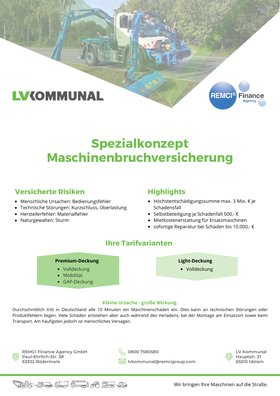
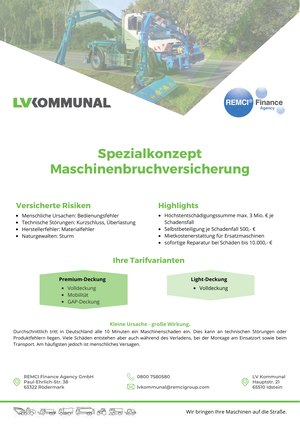
Downloads als Querkarten mit großem Vorschaubild

diff --git a/downloads.html b/downloads.html
@@ -38,37 +38,27 @@
     <div class="hero-text"><p class="eyebrow">Service</p><h1 class="d-l">Downloads</h1><p class="lead">Unsere Infoblätter zum Nachlesen und&nbsp;Weitergeben.</p></div>
     <div class="strasse" aria-hidden="true"><svg class="illu" viewBox="0 60 5928 400" aria-hidden="true"><use href="assets/img/illustration.svg#ill"/></svg></div>
   </div>
-</section><section class="sek sek-raum" aria-label="Infoblätter"><div class="wrap"><div class="downloads">
-    <article class="download">
-      <a class="papier-buehne papier-quer" href="downloads/LV-Kommunal_Infobroschuere.pdf" target="_blank" rel="noopener" tabindex="-1" aria-hidden="true">
-        <span class="papier"><picture><source srcset="assets/img/pdf-infobroschuere-klein.webp 280w, assets/img/pdf-infobroschuere.webp 560w" sizes="280px" type="image/webp"><img src="assets/img/pdf-infobroschuere-klein.jpg" alt="" width="280" height="198" loading="lazy" decoding="async"></picture></span>
-      </a>
-      <div class="download-text"><p class="eyebrow">Überblick</p><h2>Infobroschüre Leasing und&nbsp;Versicherung</h2><p>Die Vorteile für Vertrieb und Handel sowie für Dienstleister und&nbsp;Kommunen.</p>
-      <div class="download-fuss"><span>PDF · 2 Seiten · 152&nbsp;KB</span><a class="btn btn-grau" href="downloads/LV-Kommunal_Infobroschuere.pdf" target="_blank" rel="noopener"><svg viewBox="0 0 24 24" fill="none" stroke="currentColor" stroke-width="2.2" stroke-linecap="round" stroke-linejoin="round" aria-hidden="true"><path d="M12 4v11M7 10l5 5 5-5M5 20h14"/></svg> Herunterladen<span class="sr"> Infobroschüre Leasing und&nbsp;Versicherung</span><span class="sr">(öffnet in neuem&nbsp;Tab)</span></a></div></div></article>
-    <article class="download">
-      <a class="papier-buehne" href="downloads/LV-Kommunal_Langzeitmiete.pdf" target="_blank" rel="noopener" tabindex="-1" aria-hidden="true">
-        <span class="papier"><picture><source srcset="assets/img/pdf-langzeitmiete-klein.webp 280w, assets/img/pdf-langzeitmiete.webp 560w" sizes="280px" type="image/webp"><img src="assets/img/pdf-langzeitmiete-klein.jpg" alt="" width="280" height="396" loading="lazy" decoding="async"></picture></span>
-      </a>
-      <div class="download-text"><p class="eyebrow">Für&nbsp;Kommunen</p><h2>Kommunale&nbsp;Langzeitmiete</h2><p>Entlastet den Haushalt, fest kalkulierbare Kosten, schnellere Beschaffung, Saisonmieten möglich, Laufzeiten von 6 bis 84&nbsp;Monaten.</p>
-      <div class="download-fuss"><span>PDF · 2 Seiten · 122&nbsp;KB</span><a class="btn btn-grau" href="downloads/LV-Kommunal_Langzeitmiete.pdf" target="_blank" rel="noopener"><svg viewBox="0 0 24 24" fill="none" stroke="currentColor" stroke-width="2.2" stroke-linecap="round" stroke-linejoin="round" aria-hidden="true"><path d="M12 4v11M7 10l5 5 5-5M5 20h14"/></svg> Herunterladen<span class="sr"> Kommunale&nbsp;Langzeitmiete</span><span class="sr">(öffnet in neuem&nbsp;Tab)</span></a></div></div></article>
-    <article class="download">
-      <a class="papier-buehne" href="downloads/LV-Kommunal_Maschinenbruchversicherung.pdf" target="_blank" rel="noopener" tabindex="-1" aria-hidden="true">
-        <span class="papier"><picture><source srcset="assets/img/pdf-maschinenbruchversicherung-klein.webp 280w, assets/img/pdf-maschinenbruchversicherung.webp 560w" sizes="280px" type="image/webp"><img src="assets/img/pdf-maschinenbruchversicherung-klein.jpg" alt="" width="280" height="396" loading="lazy" decoding="async"></picture></span>
-      </a>
-      <div class="download-text"><p class="eyebrow">Versicherung</p><h2>Maschinenbruchversicherung</h2><p>Motor- und Getriebeschäden, Bedienungsfehler, Böswilligkeit, Vandalismus, GAP-Deckung und Mietkosten für eine&nbsp;Ersatzmaschine.</p>
-      <div class="download-fuss"><span>PDF · 2 Seiten · 293&nbsp;KB</span><a class="btn btn-grau" href="downloads/LV-Kommunal_Maschinenbruchversicherung.pdf" target="_blank" rel="noopener"><svg viewBox="0 0 24 24" fill="none" stroke="currentColor" stroke-width="2.2" stroke-linecap="round" stroke-linejoin="round" aria-hidden="true"><path d="M12 4v11M7 10l5 5 5-5M5 20h14"/></svg> Herunterladen<span class="sr"> Maschinenbruchversicherung</span><span class="sr">(öffnet in neuem&nbsp;Tab)</span></a></div></div></article>
-    <article class="download">
-      <a class="papier-buehne" href="downloads/LV-Kommunal_Einkaufsfinanzierung.pdf" target="_blank" rel="noopener" tabindex="-1" aria-hidden="true">
-        <span class="papier"><picture><source srcset="assets/img/pdf-einkaufsfinanzierung-klein.webp 280w, assets/img/pdf-einkaufsfinanzierung.webp 560w" sizes="280px" type="image/webp"><img src="assets/img/pdf-einkaufsfinanzierung-klein.jpg" alt="" width="280" height="396" loading="lazy" decoding="async"></picture></span>
-      </a>
-      <div class="download-text"><p class="eyebrow">Für&nbsp;Händler</p><h2>Einkaufsfinanzierung</h2><p>Einkaufsrahmen ab 250.000 €, 100 % Finanzierung ohne Eigenmittel, Skonto und Frühbezugskonditionen nutzen, Liquidität&nbsp;schonen.</p>
-      <div class="download-fuss"><span>PDF · 2 Seiten · 181&nbsp;KB</span><a class="btn btn-grau" href="downloads/LV-Kommunal_Einkaufsfinanzierung.pdf" target="_blank" rel="noopener"><svg viewBox="0 0 24 24" fill="none" stroke="currentColor" stroke-width="2.2" stroke-linecap="round" stroke-linejoin="round" aria-hidden="true"><path d="M12 4v11M7 10l5 5 5-5M5 20h14"/></svg> Herunterladen<span class="sr"> Einkaufsfinanzierung</span><span class="sr">(öffnet in neuem&nbsp;Tab)</span></a></div></div></article>
-    <article class="download">
-      <a class="papier-buehne" href="downloads/LV-Kommunal_Mietparkversicherung.pdf" target="_blank" rel="noopener" tabindex="-1" aria-hidden="true">
-        <span class="papier"><picture><source srcset="assets/img/pdf-mietparkversicherung-klein.webp 280w, assets/img/pdf-mietparkversicherung.webp 560w" sizes="280px" type="image/webp"><img src="assets/img/pdf-mietparkversicherung-klein.jpg" alt="" width="280" height="396" loading="lazy" decoding="async"></picture></span>
-      </a>
-      <div class="download-text"><p class="eyebrow">Für&nbsp;Händler</p><h2>Mietparkversicherung</h2><p>Vermietrisiko versichert, Neumaschinen automatisch dabei, kein An- und Abmelden von neuen oder verkauften&nbsp;Geräten.</p>
-      <div class="download-fuss"><span>PDF · 2 Seiten · 105&nbsp;KB</span><a class="btn btn-grau" href="downloads/LV-Kommunal_Mietparkversicherung.pdf" target="_blank" rel="noopener"><svg viewBox="0 0 24 24" fill="none" stroke="currentColor" stroke-width="2.2" stroke-linecap="round" stroke-linejoin="round" aria-hidden="true"><path d="M12 4v11M7 10l5 5 5-5M5 20h14"/></svg> Herunterladen<span class="sr"> Mietparkversicherung</span><span class="sr">(öffnet in neuem&nbsp;Tab)</span></a></div></div></article>
+</section><section class="sek sek-raum" aria-label="Infoblätter"><div class="wrap"><div class="dl-raster">
+    <a class="dl-karte dl-gross" href="downloads/LV-Kommunal_Infobroschuere.pdf" target="_blank" rel="noopener">
+      <span class="dl-bild"><span class="dl-papier"><picture><source srcset="assets/img/pdf-infobroschuere-klein.webp 560w, assets/img/pdf-infobroschuere.webp 1100w" sizes="(max-width: 760px) 80vw, 520px" type="image/webp"><img src="assets/img/pdf-infobroschuere-klein.jpg" alt="" width="560" height="396" loading="lazy" decoding="async"></picture></span></span>
+      <span class="dl-text"><span class="eyebrow">Überblick</span><h2>Infobroschüre Leasing und&nbsp;Versicherung</h2><span class="dl-beschr">Die Vorteile für Vertrieb und Handel sowie für Dienstleister und&nbsp;Kommunen.</span>
+        <span class="dl-meta"><span class="dl-knopf"><svg viewBox="0 0 24 24" fill="none" stroke="currentColor" stroke-width="2.2" stroke-linecap="round" stroke-linejoin="round" aria-hidden="true"><path d="M12 4v11M7 10l5 5 5-5M5 20h14"/></svg>PDF&nbsp;herunterladen</span><small>2 Seiten · 152&nbsp;KB</small></span></span><span class="sr">(öffnet in neuem&nbsp;Tab)</span></a>
+    <a class="dl-karte" href="downloads/LV-Kommunal_Langzeitmiete.pdf" target="_blank" rel="noopener">
+      <span class="dl-bild"><span class="dl-papier"><picture><source srcset="assets/img/pdf-langzeitmiete-klein.webp 300w, assets/img/pdf-langzeitmiete.webp 560w" sizes="(max-width: 760px) 60vw, 230px" type="image/webp"><img src="assets/img/pdf-langzeitmiete-klein.jpg" alt="" width="300" height="424" loading="lazy" decoding="async"></picture></span></span>
+      <span class="dl-text"><span class="eyebrow">Für&nbsp;Kommunen</span><h2>Kommunale&nbsp;Langzeit&shy;miete</h2><span class="dl-beschr">Entlastet den Haushalt, fest kalkulierbare Kosten, schnellere Beschaffung, Saisonmieten möglich, Laufzeiten von 6 bis 84&nbsp;Monaten.</span>
+        <span class="dl-meta"><span class="dl-knopf"><svg viewBox="0 0 24 24" fill="none" stroke="currentColor" stroke-width="2.2" stroke-linecap="round" stroke-linejoin="round" aria-hidden="true"><path d="M12 4v11M7 10l5 5 5-5M5 20h14"/></svg>PDF&nbsp;herunterladen</span><small>2 Seiten · 122&nbsp;KB</small></span></span><span class="sr">(öffnet in neuem&nbsp;Tab)</span></a>
+    <a class="dl-karte" href="downloads/LV-Kommunal_Maschinenbruchversicherung.pdf" target="_blank" rel="noopener">
+      <span class="dl-bild"><span class="dl-papier"><picture><source srcset="assets/img/pdf-maschinenbruchversicherung-klein.webp 300w, assets/img/pdf-maschinenbruchversicherung.webp 560w" sizes="(max-width: 760px) 60vw, 230px" type="image/webp"><img src="assets/img/pdf-maschinenbruchversicherung-klein.jpg" alt="" width="300" height="424" loading="lazy" decoding="async"></picture></span></span>
+      <span class="dl-text"><span class="eyebrow">Versicherung</span><h2>Maschinenbruch&shy;versicherung</h2><span class="dl-beschr">Motor- und Getriebeschäden, Bedienungsfehler, Böswilligkeit, Vandalismus, GAP-Deckung und Mietkosten für eine&nbsp;Ersatzmaschine.</span>
+        <span class="dl-meta"><span class="dl-knopf"><svg viewBox="0 0 24 24" fill="none" stroke="currentColor" stroke-width="2.2" stroke-linecap="round" stroke-linejoin="round" aria-hidden="true"><path d="M12 4v11M7 10l5 5 5-5M5 20h14"/></svg>PDF&nbsp;herunterladen</span><small>2 Seiten · 293&nbsp;KB</small></span></span><span class="sr">(öffnet in neuem&nbsp;Tab)</span></a>
+    <a class="dl-karte" href="downloads/LV-Kommunal_Einkaufsfinanzierung.pdf" target="_blank" rel="noopener">
+      <span class="dl-bild"><span class="dl-papier"><picture><source srcset="assets/img/pdf-einkaufsfinanzierung-klein.webp 300w, assets/img/pdf-einkaufsfinanzierung.webp 560w" sizes="(max-width: 760px) 60vw, 230px" type="image/webp"><img src="assets/img/pdf-einkaufsfinanzierung-klein.jpg" alt="" width="300" height="424" loading="lazy" decoding="async"></picture></span></span>
+      <span class="dl-text"><span class="eyebrow">Für&nbsp;Händler</span><h2>Einkaufs&shy;finanzierung</h2><span class="dl-beschr">Einkaufsrahmen ab 250.000 €, 100 % Finanzierung ohne Eigenmittel, Skonto und Frühbezugskonditionen nutzen, Liquidität&nbsp;schonen.</span>
+        <span class="dl-meta"><span class="dl-knopf"><svg viewBox="0 0 24 24" fill="none" stroke="currentColor" stroke-width="2.2" stroke-linecap="round" stroke-linejoin="round" aria-hidden="true"><path d="M12 4v11M7 10l5 5 5-5M5 20h14"/></svg>PDF&nbsp;herunterladen</span><small>2 Seiten · 181&nbsp;KB</small></span></span><span class="sr">(öffnet in neuem&nbsp;Tab)</span></a>
+    <a class="dl-karte" href="downloads/LV-Kommunal_Mietparkversicherung.pdf" target="_blank" rel="noopener">
+      <span class="dl-bild"><span class="dl-papier"><picture><source srcset="assets/img/pdf-mietparkversicherung-klein.webp 300w, assets/img/pdf-mietparkversicherung.webp 560w" sizes="(max-width: 760px) 60vw, 230px" type="image/webp"><img src="assets/img/pdf-mietparkversicherung-klein.jpg" alt="" width="300" height="424" loading="lazy" decoding="async"></picture></span></span>
+      <span class="dl-text"><span class="eyebrow">Für&nbsp;Händler</span><h2>Mietpark&shy;versicherung</h2><span class="dl-beschr">Vermietrisiko versichert, Neumaschinen automatisch dabei, kein An- und Abmelden von neuen oder verkauften&nbsp;Geräten.</span>
+        <span class="dl-meta"><span class="dl-knopf"><svg viewBox="0 0 24 24" fill="none" stroke="currentColor" stroke-width="2.2" stroke-linecap="round" stroke-linejoin="round" aria-hidden="true"><path d="M12 4v11M7 10l5 5 5-5M5 20h14"/></svg>PDF&nbsp;herunterladen</span><small>2 Seiten · 105&nbsp;KB</small></span></span><span class="sr">(öffnet in neuem&nbsp;Tab)</span></a>
   </div></div></section>
 <section class="sek grau-flaeche" aria-labelledby="anruf-titel">
   <div class="wrap anruf">

diff --git a/assets/css/style.css b/assets/css/style.css
@@ -598,3 +598,59 @@ body { hyphens: manual; -webkit-hyphens: manual; }
 /* Ausgeblendete Elemente bleiben ausgeblendet, auch wenn ihre Klasse display setzt */
 [hidden] { display: none !important; }
 @media (max-width: 480px) { .kacheln-drei .kw { flex-direction: row; gap: .9rem; } }
+
+/* ============================================ Downloads als Querkarten (Version 2) */
+.dl-raster { display: grid; grid-template-columns: repeat(2, minmax(0, 1fr)); gap: 1.4rem; }
+.dl-karte {
+  display: grid; grid-template-columns: minmax(0, .85fr) minmax(0, 1.15fr); min-height: 300px;
+  background: var(--weiss); border: 1px solid var(--raum-2); border-radius: var(--r-l); overflow: hidden;
+  text-decoration: none; color: inherit; transition: border-color .2s, box-shadow .2s, transform .2s;
+}
+.dl-karte:hover { border-color: #C5CAC1; box-shadow: 0 2px 4px rgba(38, 39, 42, .05), 0 18px 40px rgba(38, 39, 42, .1); transform: translateY(-2px); }
+.dl-karte:focus-visible { outline: 3px solid var(--gruen-text); outline-offset: 3px; }
+.dl-gross { grid-column: 1 / -1; grid-template-columns: minmax(0, 1.2fr) minmax(0, 1fr); min-height: 340px; }
+
+/* Bildfeld in Logo-Grau, das Infoblatt ragt von unten heraus */
+.dl-bild {
+  position: relative; display: flex; align-items: flex-end; justify-content: center; overflow: hidden;
+  padding: 2.2rem 1.5rem 0;
+  background: radial-gradient(90% 70% at 50% 0%, #6A6B70 0%, var(--grau) 60%, var(--grau-tief) 100%);
+}
+.dl-papier { position: relative; display: block; width: 68%; max-width: 230px; transform: translateY(14%); transition: transform .45s cubic-bezier(.2, .7, .2, 1); }
+.dl-gross .dl-papier { width: 82%; max-width: 520px; transform: translateY(16%); }
+/* zweites Blatt dahinter, gerade versetzt: alle Infoblätter haben zwei Seiten */
+.dl-papier::before {
+  content: ""; position: absolute; inset: 0; border-radius: 2px; background: #E9EBE7;
+  transform: translate(10px, -10px); box-shadow: 0 10px 30px rgba(0, 0, 0, .25);
+}
+.dl-papier img {
+  position: relative; display: block; width: 100%; height: auto; border-radius: 2px; background: var(--weiss);
+  box-shadow: 0 1px 2px rgba(0, 0, 0, .2), 0 10px 18px rgba(0, 0, 0, .22), 0 30px 60px rgba(0, 0, 0, .3);
+}
+.dl-karte:hover .dl-papier, .dl-karte:focus-visible .dl-papier { transform: translateY(6%); }
+
+.dl-text { display: flex; flex-direction: column; gap: .55rem; padding: clamp(1.4rem, 2.6vw, 2rem); }
+.dl-text .eyebrow { margin-bottom: .2rem; }
+.dl-text h2 { font-size: clamp(1.2rem, 1.7vw, 1.45rem); letter-spacing: -.015em; line-height: 1.2; }
+.dl-gross .dl-text h2 { font-size: clamp(1.4rem, 2.2vw, 1.9rem); }
+.dl-beschr { color: var(--tinte-2); font-size: .97rem; line-height: 1.6; }
+.dl-meta { margin-top: auto; padding-top: 1.2rem; display: flex; align-items: center; justify-content: space-between; gap: .6rem 1rem; flex-wrap: wrap; }
+.dl-knopf { display: inline-flex; align-items: center; gap: .5rem; font-weight: 700; color: var(--gruen-text); }
+.dl-knopf svg { width: 20px; height: 20px; transition: transform .2s; }
+.dl-karte:hover .dl-knopf { text-decoration: underline; text-underline-offset: .2em; }
+.dl-karte:hover .dl-knopf svg { transform: translateY(2px); }
+.dl-meta small { font-family: var(--mono); font-size: .74rem; color: var(--tinte-2); }
+
+@media (max-width: 1040px) { .dl-raster { grid-template-columns: minmax(0, 1fr); } }
+@media (max-width: 640px) {
+  .dl-karte, .dl-gross { grid-template-columns: minmax(0, 1fr); }
+  .dl-bild { min-height: 230px; padding-top: 1.8rem; }
+  .dl-papier { width: 46%; }
+  .dl-gross .dl-papier { width: 84%; }
+}
+@media (prefers-reduced-motion: reduce) { .dl-papier, .dl-karte { transition: none; } }
+.dl-karte:not(.dl-gross) { grid-template-columns: minmax(0, .8fr) minmax(0, 1.2fr); }
+.dl-karte:not(.dl-gross) .dl-papier { width: 80%; max-width: 250px; transform: translateY(10%); }
+.dl-karte:not(.dl-gross):hover .dl-papier { transform: translateY(3%); }
+.dl-text h2 { overflow-wrap: normal; }
+@media (max-width: 640px) { .dl-karte:not(.dl-gross) { grid-template-columns: minmax(0, 1fr); } .dl-karte:not(.dl-gross) .dl-papier { width: 52%; } }
